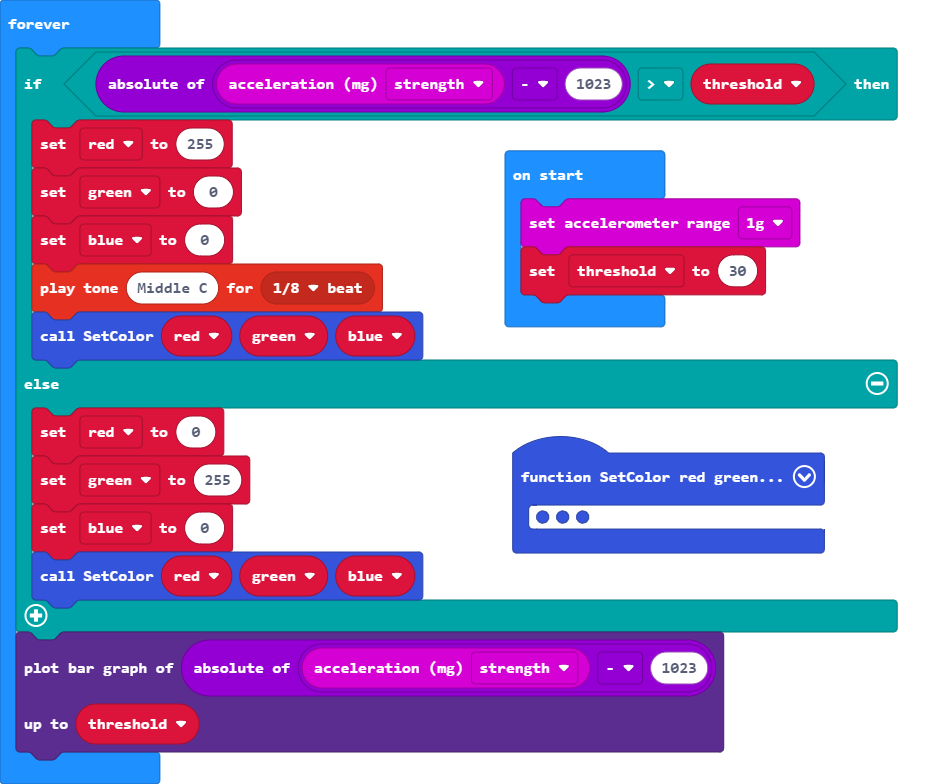
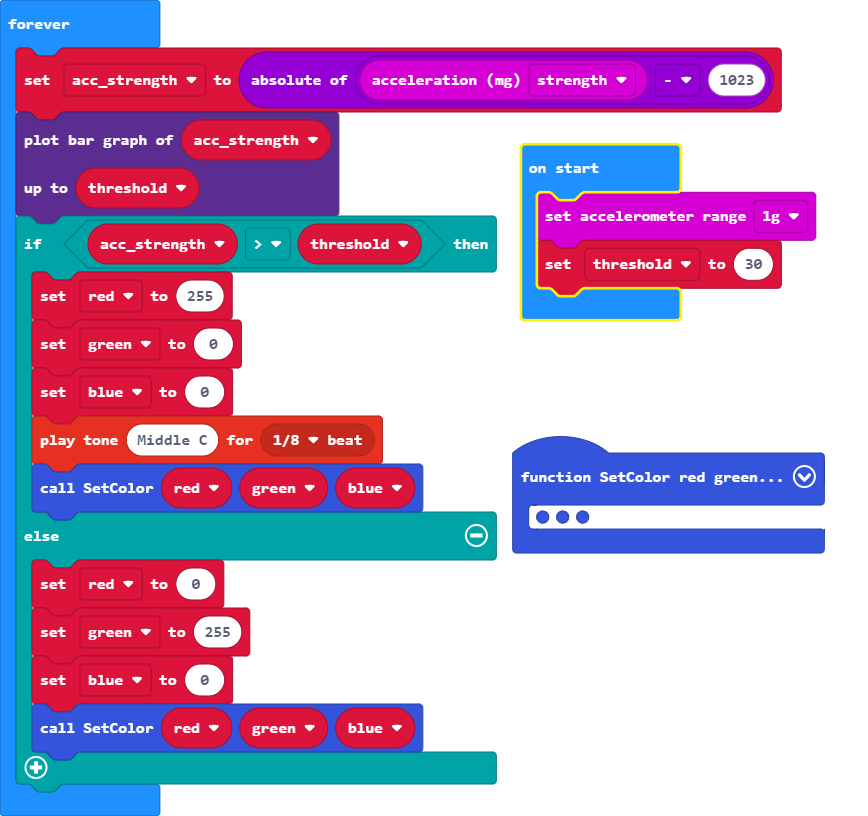
Update main.blocks, main.ts

diff --git a/main.ts b/main.ts
@@ -7,13 +7,19 @@ function SetColor (red: number, green: number, blue: number) {
     pins.analogWritePin(AnalogPin.P2, blue)
     basic.pause(200)
 }
+let acc_strength = 0
 let blue = 0
 let green = 0
 let red = 0
 input.setAccelerometerRange(AcceleratorRange.OneG)
 let threshold = 30
 basic.forever(function () {
-    if (Math.abs(input.acceleration(Dimension.Strength) - 1023) > threshold) {
+    acc_strength = Math.abs(input.acceleration(Dimension.Strength) - 1023)
+    led.plotBarGraph(
+    acc_strength,
+    threshold
+    )
+    if (acc_strength > threshold) {
         red = 255
         green = 0
         blue = 0
@@ -25,8 +31,4 @@ basic.forever(function () {
         blue = 0
         SetColor(red, green, blue)
     }
-    led.plotBarGraph(
-    Math.abs(input.acceleration(Dimension.Strength) - 1023),
-    threshold
-    )
 })
